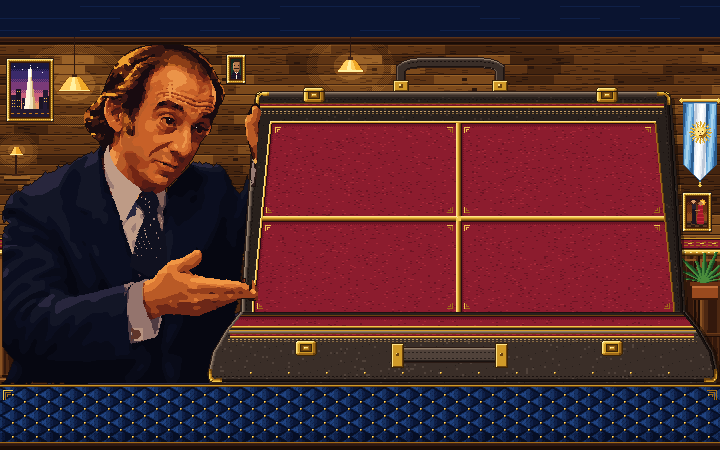
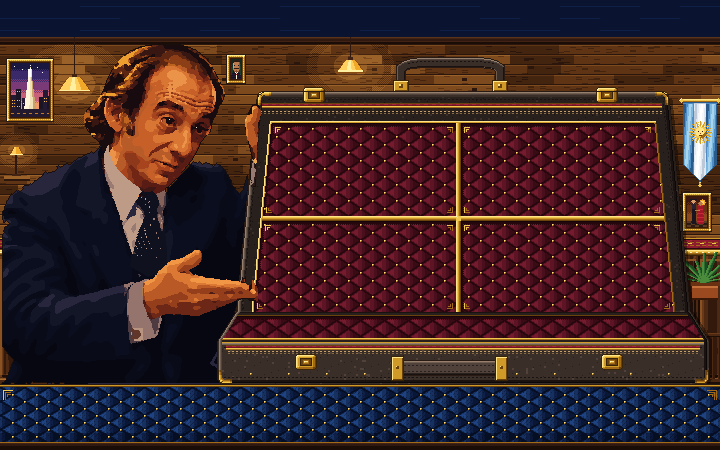
Maletín con la perspectiva corregida y capitoné bordó oscuro
Opción B1 elegida por el autor entre bocetos:
- La tapa tiene el marco de cuero parejo (sus costados siguen la
  inclinación del interior) y la base es una bandeja honda vista desde
  arriba con el frente de costados verticales; antes se abría en embudo.
- Interior de capitoné bordó oscuro con botones dorados.
- terciopelo-v3.png (paneles y descripciones) pasa al mismo bordó oscuro,
  liso para que el texto se lea.
Las zonas de compra no se movieron.

Changed region(s): [[0.275, 0.1867, 1.0, 0.8711], [0.3361, 0.1867, 0.3667, 0.2489]]

diff --git a/tools/art/maletin.py b/tools/art/maletin.py
@@ -1,24 +1,33 @@
 """El maletín de la tienda con la forma del original (shop-salesman-v1.png) y materiales pixel-v3.
 
-La tapa queda casi de frente, el interior es un trapecio apenas más angosto arriba (las zonas de compra
-de main.gd se diseñaron sobre esa forma) y la base se abre hacia abajo, como en la ilustración. Cuero
-negro cálido (grano fino, ribete bordó entre filetes dorados, doble costura clara), herrajes dorados y terciopelo bordó con el mismo pelo corto que el paño de la mesa.
+La tapa queda casi de frente, con el marco de cuero parejo: sus costados siguen la misma inclinación que el
+interior, un trapecio apenas más angosto arriba (las zonas de compra de main.gd se diseñaron sobre esa forma).
+La base es una bandeja honda vista desde arriba que se abre hacia quien mira, y su frente tiene costados
+verticales (antes se abría en embudo hasta abajo y la perspectiva parecía rota). Opción B1 elegida por el autor
+(nov 2026). Cuero negro cálido (grano fino, ribete bordó entre filetes dorados, doble costura clara), herrajes
+dorados e interior de capitoné bordó oscuro con botones dorados.
 """
 from __future__ import annotations
 
 import numpy as np
 
-from pixel_lib import Canvas, OUTLINE, GOLD, WARMBLK as LEATHER, PANO, hash2, poly_mask, edge_of
+import math
+
+from pixel_lib import Canvas, OUTLINE, GOLD, WARMBLK as LEATHER, PANO, hash2, poly_mask, edge_of, ramp
+
+# bordó oscuro del interior (antes el del paño, base 8c1c2e): las ofertas y los divisores dorados resaltan más
+DK = ramp("16040a", "26070e", "380b15", "4a0f1c", "5e1424", "741c2e", "8c2638")
 
 W, H = 720, 450
 IN_Y0, IN_Y1 = 123, 311          # interior de terciopelo
 DIV_X = (456, 460)               # divisor vertical
 DIV_Y = (216, 220)               # divisor horizontal
-LID_P = [(262, 92), (663, 92), (668, 95), (670, 100), (684, 312), (241, 312), (255, 100), (257, 95)]
-BASE_P = [(241, 311), (684, 311), (699, 330), (712, 352), (717, 374), (715, 382), (210, 382), (208, 374),
-          (213, 352), (226, 330)]
-LIP_Y = (312, 329)               # borde superior de la base (visto desde arriba), con tira de terciopelo
-FRONT_Y = (330, 381)             # frente de la base
+# tapa con el marco de cuero parejo: los costados siguen la misma inclinación que el interior
+LID_P = [(264, 92), (661, 92), (666, 95), (668, 100), (689, 312), (237, 312), (257, 100), (259, 95)]
+# bandeja honda: se ve el terciopelo de la base desde arriba, después el frente con costados verticales
+LIP_Y = (312, 341)
+BASE_P = [(237, 311), (689, 311), (708, 341), (708, 379), (705, 383), (221, 383), (218, 379), (218, 341)]
+FRONT_Y = (LIP_Y[1] + 1, BASE_P[3][1] + 3)
 
 
 def in_left(y: float) -> float:
@@ -200,17 +209,38 @@ def ribete(cv: Canvas, x0: int, x1: int, y: int) -> None:
 
 
 # ---------- cuerpo
+def tex_px(x: int, y: int) -> tuple:
+    """Capitoné bordó oscuro: rombos acolchados de 24×16 con luz arriba-izquierda y costura hundida
+    (los botones dorados se ponen aparte, en los cruces)."""
+    p = (x / 12.0 + y / 8.0) / 2.0
+    q = (x / 12.0 - y / 8.0) / 2.0
+    fa, fb = p - math.floor(p), q - math.floor(q)
+    t = min(fa, 1 - fa, fb, 1 - fb) * 2.0
+    lit = (1 - fa) * 0.5 + (1 - fb) * 0.5 - 0.5
+    idx = 3
+    if t > 0.3 and lit > 0.1:
+        idx = 5
+    elif t > 0.18 and lit > -0.05:
+        idx = 4
+    elif lit < -0.2:
+        idx = 2
+    if t < 0.1:
+        idx = 1
+    elif t < 0.2:
+        idx = min(idx, 2)
+    return DK[idx]
+
+
 def velvet_px(x: int, y: int, top: float, left: float) -> tuple:
-    """Terciopelo con pelo corto; sombra de los bordes de arriba y de la izquierda (luz arriba-izquierda)."""
-    r = hash2(x // 2, y, 21)
-    c = PANO[1] if r < 0.045 else PANO[3] if r > 0.97 else PANO[2]
+    """Terciopelo con sombra de los bordes de arriba y de la izquierda (luz arriba-izquierda)."""
+    c = tex_px(x, y)
     dt, dl = y - top, x - left
     if dt < 0.5 or dl < 0.5:
-        return PANO[0]
+        return DK[0]
     if dt < 2.5 or dl < 1.5:
-        return PANO[1]
+        return DK[1]
     if dt < 3.5 or dl < 2.5:
-        return PANO[1] if (x + y) % 2 == 0 else PANO[2]
+        return DK[1] if (x + y) % 2 == 0 else c
     return c
 
 
@@ -235,7 +265,7 @@ def draw(cv: Canvas) -> None:
                     cv.put(px, y, c)
     # canto superior de la tapa
     for y, c in ((92, LEATHER[6]), (93, LEATHER[5]), (94, LEATHER[4]), (95, LEATHER[3]), (96, LEATHER[3])):
-        for x in range(262, 664):
+        for x in range(258, 668):
             if lid[y, x]:
                 cv.put(x, y, c)
     for x in range(266, 660):
@@ -269,6 +299,18 @@ def draw(cv: Canvas) -> None:
                 top = IN_Y0 if y < DIV_Y[0] else DIV_Y[1] + 1
                 left = l if x < DIV_X[0] else DIV_X[1] + 1
                 cv.put(x, y, velvet_px(x, y, top, left))
+    # botones dorados del capitoné en los cruces
+    for i in range(10, 60):
+        for j in range(10, 45):
+            if (i + j) % 2:
+                continue
+            bx, by = i * 12, j * 8
+            if (inner[by, bx] and inner[by + 2, bx + 2] and not (DIV_X[0] - 3 <= bx <= DIV_X[1] + 2)
+                    and not (DIV_Y[0] - 3 <= by <= DIV_Y[1] + 2) and IN_Y0 + 3 < by < IN_Y1 - 2):
+                cv.put(bx, by, GOLD[5])
+                cv.put(bx + 1, by, GOLD[3])
+                cv.put(bx, by + 1, GOLD[3])
+                cv.put(bx + 1, by + 1, GOLD[1])
     # divisores dorados
     for y in range(IN_Y0, IN_Y1 + 1):
         for x, c in zip(range(DIV_X[0], DIV_X[1] + 1), (GOLD[5], GOLD[4], GOLD[3], GOLD[2], GOLD[1])):
@@ -291,18 +333,19 @@ def draw(cv: Canvas) -> None:
         corner_bracket(cv, DIV_X[1] + 4, y1 - 8, False, True)
         corner_bracket(cv, int(in_right(y1)) - 8, y1 - 8, True, True)
     # base: borde superior visto desde arriba, con tira de terciopelo entre dos filetes dorados
-    for y in range(LIP_Y[0], LIP_Y[1] + 1):
+    y0, y1 = LIP_Y
+    for y in range(y0, y1 + 1):
         l, r = side_x(BASE_P, y + 0.5, True), side_x(BASE_P, y + 0.5, False)
         for x in range(int(l) + 4, int(np.ceil(r)) - 4):
-            if y < 315:
-                c = LEATHER[1] if y == LIP_Y[0] else LEATHER[2]
-            elif y == 315:
+            if y < y0 + 3:
+                c = LEATHER[1] if y == y0 else LEATHER[2]
+            elif y == y0 + 3:
                 c = GOLD[1]
-            elif y < 326:
-                c = velvet_px(x, y, 316, -99) if y > 316 else PANO[0]
-            elif y == 326:
+            elif y < y1 - 3:
+                c = velvet_px(x, y, y0 + 4, -99) if y > y0 + 4 else DK[0]
+            elif y == y1 - 3:
                 c = GOLD[4]
-            elif y == 327:
+            elif y == y1 - 2:
                 c = GOLD[2]
             else:
                 c = LEATHER[2]
@@ -325,9 +368,11 @@ def draw(cv: Canvas) -> None:
             if c is not None:
                 cv.put(x, y, c)
     # ribete bordó y doble costura clara en el frente de la base
-    ribete(cv, int(side_x(BASE_P, 336.5, True)) + 8, int(side_x(BASE_P, 336.5, False)) - 8, 333)
-    costura(cv, int(side_x(BASE_P, 339.5, True)) + 8, int(side_x(BASE_P, 339.5, False)) - 8, 339)
-    costura(cv, int(side_x(BASE_P, 341.5, True)) + 8, int(side_x(BASE_P, 341.5, False)) - 8, 341, HILO_SOMBRA)
+    fy0 = FRONT_Y[0]
+    ribete(cv, int(side_x(BASE_P, fy0 + 6.5, True)) + 8, int(side_x(BASE_P, fy0 + 6.5, False)) - 8, fy0 + 3)
+    costura(cv, int(side_x(BASE_P, fy0 + 9.5, True)) + 8, int(side_x(BASE_P, fy0 + 9.5, False)) - 8, fy0 + 9)
+    costura(cv, int(side_x(BASE_P, fy0 + 11.5, True)) + 8, int(side_x(BASE_P, fy0 + 11.5, False)) - 8, fy0 + 11,
+            HILO_SOMBRA)
     # remaches dorados del frente
     for x in range(250, 680, 38):
         for (dx, dy, c) in ((0, 0, GOLD[5]), (1, 0, GOLD[3]), (0, 1, GOLD[3]), (1, 1, GOLD[1])):
@@ -336,13 +381,14 @@ def draw(cv: Canvas) -> None:
     handle(cv, 450, 54, 57, 92)
     latch(cv, 303, 87)
     latch(cv, 596, 87)
-    latch(cv, 295, 340)
-    latch(cv, 601, 340)
-    front_handle(cv, 449, 343, 58)
-    corner_cap(cv, 255, 91, False, False)
-    corner_cap(cv, 657, 91, True, False)
-    corner_cap(cv, 208, 369, False, True)
-    corner_cap(cv, 704, 369, True, True)
+    fy0 = FRONT_Y[0]
+    latch(cv, 295, fy0 + 12)
+    latch(cv, 601, fy0 + 12)
+    front_handle(cv, 449, fy0 + 14, 58)
+    corner_cap(cv, 257, 91, False, False)
+    corner_cap(cv, 655, 91, True, False)
+    corner_cap(cv, BASE_P[-1][0], BASE_P[3][1] - 9, False, True)
+    corner_cap(cv, BASE_P[2][0] - 13, BASE_P[3][1] - 9, True, True)
     # contorno de todo el maletín
     ring = np.zeros((H, W), bool)
     ring[1:-1, 1:-1] = ~body[1:-1, 1:-1] & (body[:-2, 1:-1] | body[2:, 1:-1] | body[1:-1, :-2] | body[1:-1, 2:])

diff --git a/tools/art/make_tienda.py b/tools/art/make_tienda.py
@@ -266,12 +266,14 @@ def sticker_pack(cv: Canvas, ox: int, oy: int, angle: float = 13.0) -> None:
 
 
 def velvet_tile() -> Canvas:
-    """Baldosa de 64×64 del terciopelo del maletín para los recuadros de descripción (se repite sin costuras)."""
+    """Baldosa de 64×64 para los recuadros de descripción y los paneles (se repite sin costuras): el bordó oscuro
+    del interior del maletín, liso con pelo corto (sin el capitoné, para que el texto se lea bien)."""
+    dk = maletin.DK
     cv = Canvas(64, 64)
     for y in range(64):
         for x in range(64):
             r = hash2(x // 2, y, 21)
-            cv.put(x, y, PANO[1] if r < 0.045 else PANO[3] if r > 0.97 else PANO[2])
+            cv.put(x, y, dk[2] if r < 0.045 else dk[4] if r > 0.97 else dk[3])
     return cv
 
 

diff --git a/docs/PLAN-ARTE-PIXEL.md b/docs/PLAN-ARTE-PIXEL.md
@@ -198,3 +198,10 @@ Cada fase termina con: assets en `assets/art/pixel-v3/`, capturas antes/después
 - **Números:** dígitos de 8×12 px lógicos en oro en relieve con contorno, horneados en el medallón (`tienda-iconos-v3.png`, celdas 2 a 7, `python tools/art/make_tienda.py`). `scripts/main.gd` elige la celda `number_N` y ya no escribe el número con texto. El «?» y el «2» del sobre de stickers siguen con texto.
 - **Stickers:** cada sticker tiene su propio lugar y giro en el termo (`THERMOS_SPOTS` en `scripts/sticker_art.gd`); no depende de cuáles otros tengas, así que al conseguir uno se pega en su lugar y no se mueve más. Los giros se hornean sin perder la grilla en `pixel-v3/stickers-termo-v3.png` (`tools/art/make_stickers_termo.py`, celdas de 25×25). Lo usan el termo de la tienda, el de la mesa, el inspector, las zonas de clic y la animación del sobre, que aterriza con el giro de cada lugar.
 - Suite: 2200 comprobaciones, 0 fallos (dos nuevas en `shop_style_tests.gd`). Revisado en `thermos_review`, `sticker_pack_review` y `shop_style_review`.
+
+**Maletín con la perspectiva corregida (03/11/2026, rama `feature/maletin-perspectiva`):**
+- **Pedido del autor:** el maletín parecía descolocado y roto, y el fondo rojo tenía que ser más oscuro, que siguiera resaltando y con otra textura. Bocetos de dos formas por tres terciopelos en capturas del juego (`test-results/propuesta/maletin/`); el autor eligió **B1**.
+- **Perspectiva (`tools/art/maletin.py`):** la base se abría como un embudo hasta abajo y la tapa tenía el marco de cuero más fino abajo que arriba. Ahora la tapa tiene el marco parejo (sus costados siguen la inclinación del interior) y la base es una bandeja honda vista desde arriba: la tira de terciopelo se abre hacia quien mira y el frente tiene costados verticales con esquineros dorados. Las zonas de compra de `main.gd` no se movieron.
+- **Interior:** capitoné bordó oscuro (base `#4a0f1c`, antes `#8c1c2e`) con botones dorados en los cruces, también en la bandeja.
+- **Paneles y descripciones (`terciopelo-v3.png`):** el mismo bordó oscuro, liso con pelo corto (sin capitoné, para que el texto se lea bien).
+- Suite: 2200 comprobaciones, 0 fallos. Revisado en `shop_style_review`, `shop_hover_review` y `thermos_review`.

diff --git a/docs/TIENDA-ESTILO.md b/docs/TIENDA-ESTILO.md
@@ -4,7 +4,7 @@
 
 El fondo de la tienda pasa a pixel art en la grilla del juego: `assets/art/pixel-v3/tienda-v3.png` (720×450 px lógicos, dibujado a 1440×900 con filtro nearest). El vendedor es el mismo de la ilustración anterior, convertido con su dibujo, sus colores por zona y sin el ruido de foto. El maletín conserva la silueta del original (interior en trapecio, base abierta hacia abajo), con cuero, herrajes dorados y el terciopelo de la mesa. Las cuatro zonas de ofertas, la capa de venta por arrastre y los controles no se movieron.
 
-El medallón de mejora numérica y el sobre de stickers (en diagonal, como antes) salen de `pixel-v3/tienda-iconos-v3.png`. El número de la mejora es un dígito dorado en pixel art horneado y centrado en el medallón (celdas `number_1` a `number_6`); ya no se escribe con texto encima. `scripts/shop_art.gd` los dibuja a escala entera: ×2 en la tienda y ×4 en la animación del sobre. Las descripciones y los paneles (elegir sticker, confirmar, inspector del termo) usan `pixel-v3/terciopelo-v3.png`, el terciopelo del maletín repetido 1:1, con el mismo marco dorado.
+El medallón de mejora numérica y el sobre de stickers (en diagonal, como antes) salen de `pixel-v3/tienda-iconos-v3.png`. El número de la mejora es un dígito dorado en pixel art horneado y centrado en el medallón (celdas `number_1` a `number_6`); ya no se escribe con texto encima. `scripts/shop_art.gd` los dibuja a escala entera: ×2 en la tienda y ×4 en la animación del sobre. Las descripciones y los paneles (elegir sticker, confirmar, inspector del termo) usan `pixel-v3/terciopelo-v3.png`, repetido 1:1 con el mismo marco dorado. Desde el 03/11/2026 es el bordó oscuro del interior del maletín, liso; el maletín lleva capitoné con botones dorados.
 
 Generadores: `tools/art/make_tienda.py`, `vendedor.py` y `maletin.py` (Python 3.13 con Pillow, numpy y scipy). Procedencia en `ART-PROMPTS.md`; detalle y forma de revertir en `docs/PLAN-ARTE-PIXEL.md` (Fase 5). `shop-salesman-v1.png` y `shop-items-v1.png` quedan como referencia histórica.
 

diff --git a/ART-PROMPTS.md b/ART-PROMPTS.md
@@ -53,3 +53,5 @@ El cuerpo del dado ahora usa el sprite transparente `assets/art/ivory-die-v3.png
 `assets/art/pixel-v3/tienda-v3.png` y `mesa-v3.png` (01/11/2026, texturas): `tools/art/texturas.py` (tienda: pared de tablones con friso bordó, zócalo de boiserie, bandera con Sol de Mayo, cuadros con escenas y capitoné de la franja azul), `tools/art/maletin.py` (cuero negro cálido con grano fino, ribete bordó entre filetes dorados y doble costura) y `tools/art/make_mesa.gd` (capitoné de la franja de la mesa), sin IA de imagen. El autor aprobó los bocetos y eligió la pared B. Los cuadros son escenas originales (tango, Obelisco al atardecer, retrato); el Sol de Mayo lleva 32 rayos y cara.
 
 `assets/art/pixel-v3/stickers-termo-v3.png` (02/11/2026): los seis stickers de `stickers-v3.png` girados cada uno en su ángulo fijo del termo, con `py -3.13 tools/art/make_stickers_termo.py` (sin IA de imagen). Las celdas 2 a 7 de `tienda-iconos-v3.png` son el medallón con los números del 1 al 6 dibujados en píxel, generadas con `make_tienda.py`.
+
+`tools/art/maletin.py` (03/11/2026): maletín con la perspectiva corregida (tapa con marco parejo, base en bandeja honda con frente vertical) e interior de capitoné bordó oscuro, opción B1 elegida por el autor entre bocetos; `terciopelo-v3.png` pasa al mismo bordó oscuro, liso. Sin IA de imagen.
